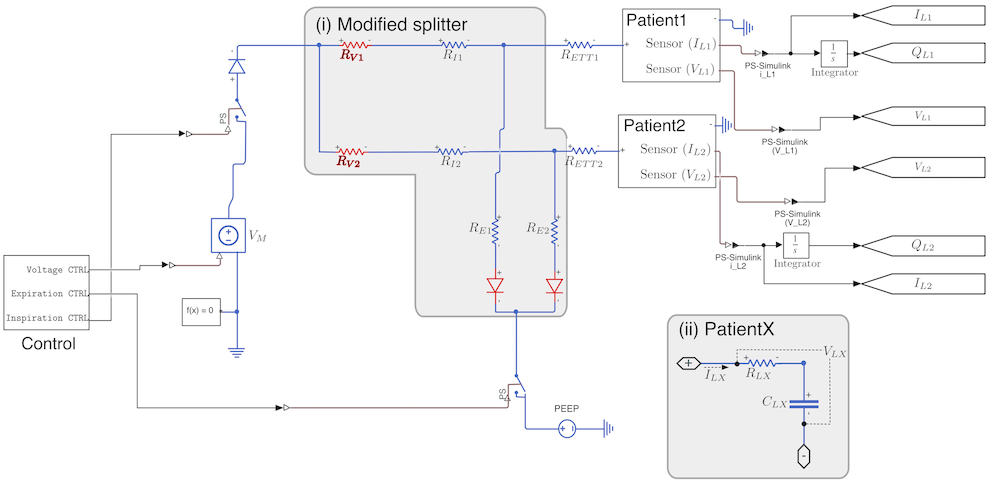
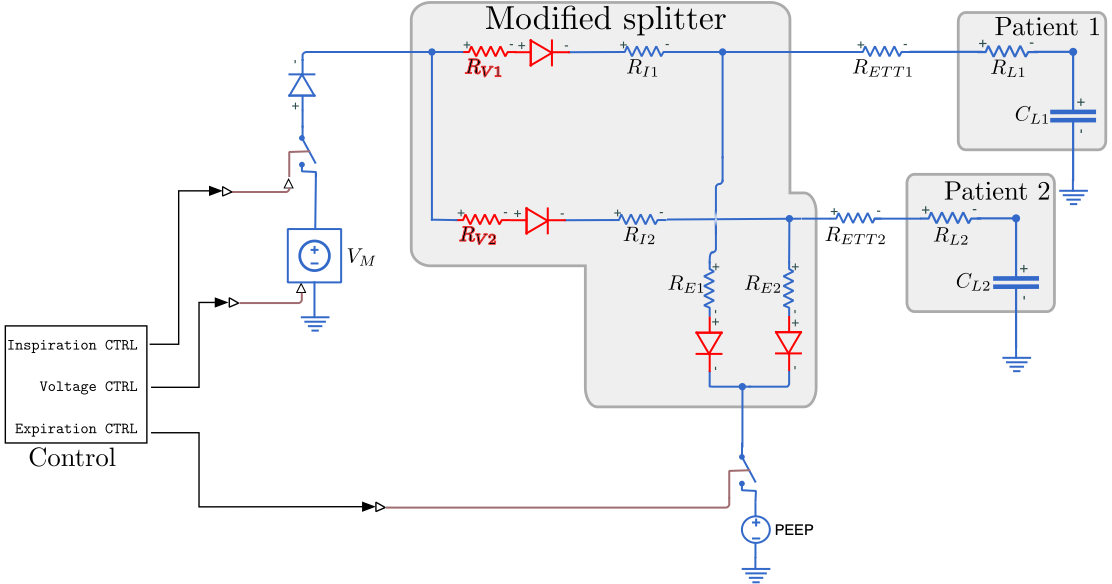
Updated images for stage1

diff --git a/stage1.md b/stage1.md
@@ -6,6 +6,8 @@ subtitle: Simulation model development
 
 We have designed an electrical circuit as an analogue to the ventilator, simulating ventilator splitting. In mapping air flow to an electrical circuit we equate volume to charge, flow to current, pressure to voltage, resistance to resistance and compliance to capacitance. We will use this model to test ventilator splitting in various different configurations whilst varying lung physiology and disease processes (varying compliance/resistance) in the 2 lung models.
 
+![](/img/diagram_elements.png)
+
 ### Results so far
 
 You can read the [pre-print of our paper](http://www.medrxiv.org/content/10.1101/2020.04.07.20056309v1),
